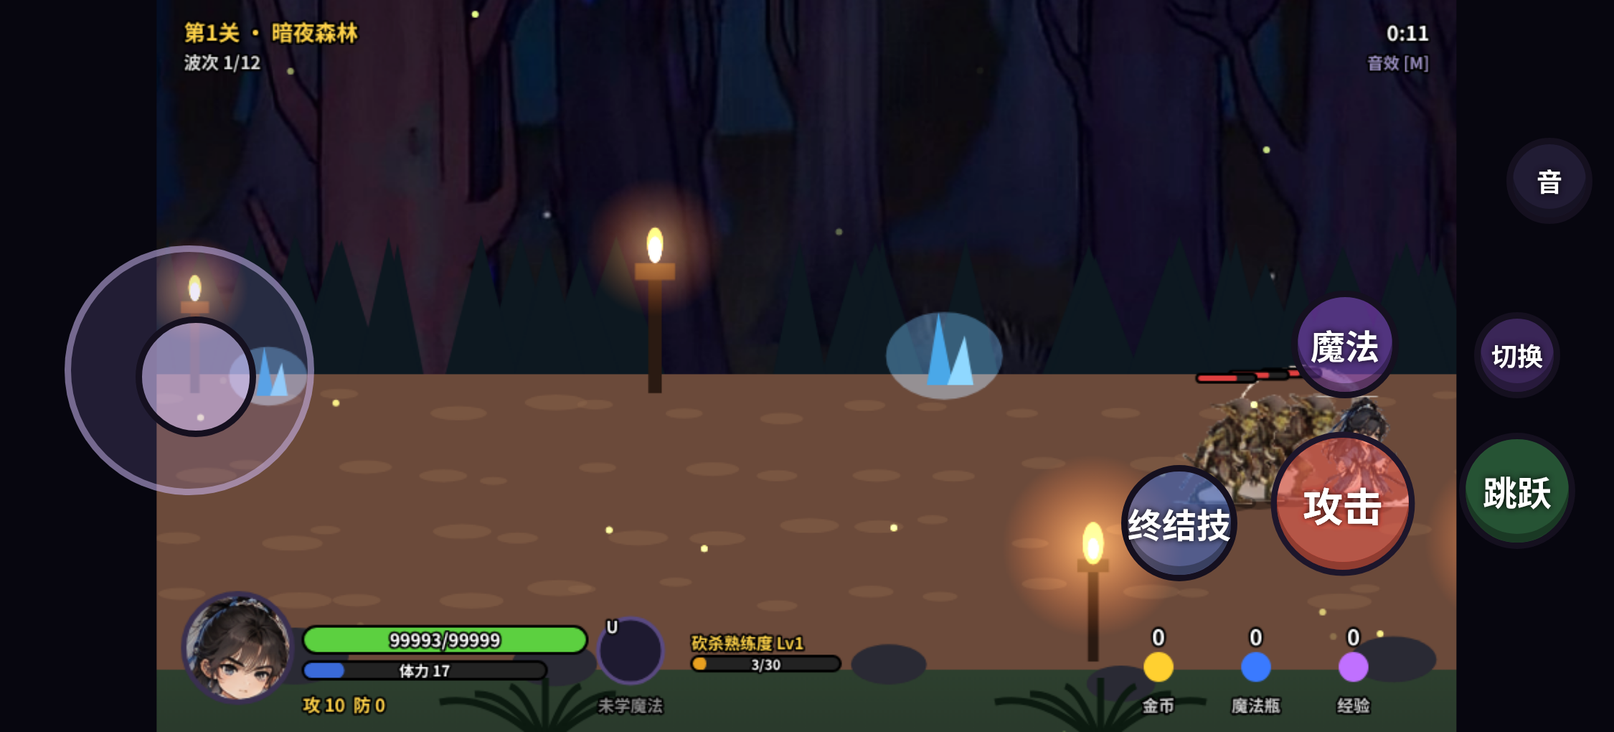
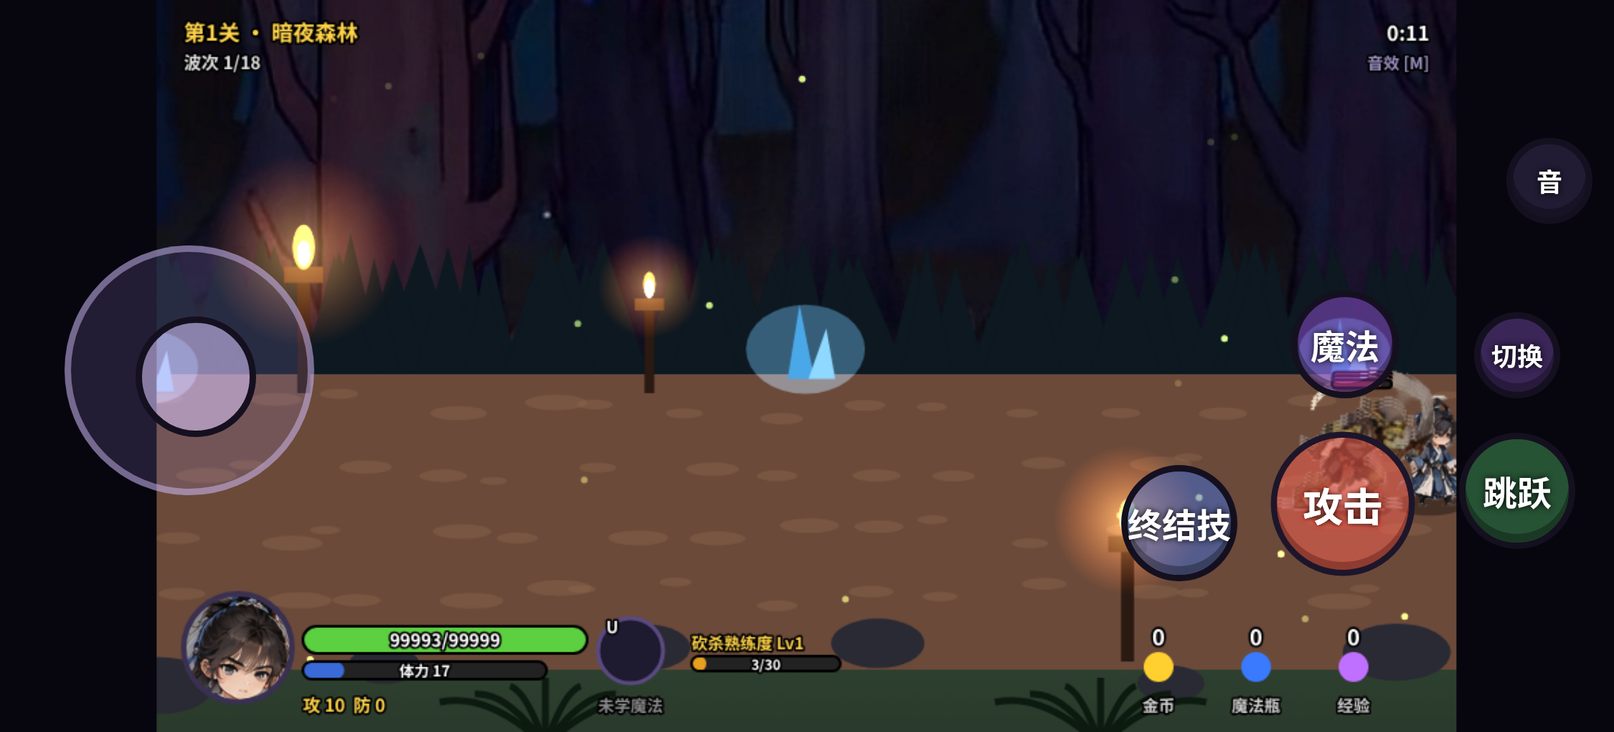
第二关雪人精灵与大雪人高清立绘补间、敌人图集去重影、分批增援拉长关卡（机器人实测 5.2–6.0 / 7.3 分钟）、文档更新

diff --git a/game.js b/game.js
@@ -43,7 +43,7 @@ const EN={
 const BOSSES={
  goblin_chief:{name:'哥布林酋长',shape:'big',hp:900,dmg:16,sp:55,exp:150,r:1.9,sc:1.12,col:'#4f8a3a',
   phases:[{at:1,pats:['combo','charge'],cd:1.9},{at:.5,pats:['combo','smash','summon'],summon:'goblin',cd:1.5,msg:'酋长怒吼，召唤援军！'}]},
- great_yeti:{name:'大雪人',shape:'snowboss',hp:1700,dmg:18,sp:60,exp:260,r:2.3,col:'#f2f7ff',face:'#3a6ac8',horns:1,crystals:1,
+ great_yeti:{name:'大雪人',shape:'snowboss',hp:2300,dmg:18,sp:60,exp:260,r:2.3,col:'#f2f7ff',face:'#3a6ac8',horns:1,crystals:1,
   phases:[{at:1,pats:['hammer','snowballs','slam','roll'],cd:1.6},{at:.6,pats:['snowballs','summon','hammer','roll','slam'],summon:'yeti_pup',cd:1.35,msg:'大雪人举锤怒吼，小雪人蜂拥而来！'},{at:.25,pats:['blizzard','hammer','slam','roll','snowballs'],cd:1.05,enrage:1,msg:'暴风雪降临！冰石如雨！'}]},
  flame_king:{name:'焰魔王·赤烎',shape:'warrior',hp:2400,dmg:22,sp:60,exp:400,r:2.4,col:'#7a0a08',horn:'#1a0a08',weapon:'#ff6a10',flame:1,king:1,
   phases:[{at:1,pats:['sweep','fireWave','sweep'],cd:1.6},{at:.6,pats:['geysers','summon','sweep','fireWave'],summon:'lava_imp',cd:1.35,msg:'赤烎召唤熔岩喷泉！'},
@@ -353,14 +353,17 @@ function updateBoss(e,dt,sl){const p=G.p,d=e.def;const ph=curPhase(e);
 }
 // ---------- 世界更新 ----------
 function hzActive(h){if(h.cyc){const t=(G.t+h.cyc.ofs)%h.cyc.per,i=h.cyc.per-h.cyc.warn-h.cyc.act;return t<i?0:t<i+h.cyc.warn?1:2}return h.t<h.warn?1:h.t<h.warn+h.act?2:3}
+function spawnBatch(w,L){const b=laneAt(w.x+W/2);L.forEach((t,i)=>{const side=t.startsWith('mini:')?1:(i%3===2?-1:1);spawn(t,side>0?w.x+W+40+i*30:w.x-40-i*20,rnd(b[0],b[1]))})}
 function updateWorld(dt){const p=G.p,B=G.B;
  // 波次
  if(G.lockX==null&&G.wave<B.waves.length&&p.x-W*.4>=B.waves[G.wave].x-40){const w=B.waves[G.wave];G.lockX=w.x;G.go=0;
   if(w.boss){spawnBoss(w.boss,w.x+W-150,(LANE_TOP+LANE_BOT)/2)}
-  else{w.list.forEach((t,i)=>{const side=t.startsWith('mini:')?1:(i%3===2?-1:1);const b=laneAt(w.x+W/2);spawn(t,side>0?w.x+W+40+i*30:w.x-40-i*20,rnd(b[0],b[1]))});
+  else{const n=w.list.some(t=>t.startsWith('mini:'))?1:Math.min(G.S.batches||1,Math.max(1,Math.floor(w.list.length/3)));
+   const bs=[];for(let k=0;k<n;k++)bs.push(w.list.filter((_,i)=>i%n===k));spawnBatch(w,bs.shift());G.reinf=bs;
    msg('第 '+(G.wave+1)+' 波'+(w.elite?' · 精英来袭！':''),w.elite?'#ff9a40':'#fff')}}
  if(G.lockX!=null){const camT=G.lockX;G.camX+=(camT-G.camX)*Math.min(1,dt*5);
-  if(G.enemies.every(e=>e.dead)&&!G.B.waves[G.wave].boss){G.lockX=null;G.wave++;G.go=2.5;sfx('go');
+  if(G.reinf&&G.reinf.length&&!G.B.waves[G.wave].boss&&G.enemies.filter(e=>!e.dead).length<=1){spawnBatch(G.B.waves[G.wave],G.reinf.shift());msg('增援来袭！','#ffb080')}
+  if(G.enemies.every(e=>e.dead)&&!(G.reinf&&G.reinf.length)&&!G.B.waves[G.wave].boss){G.lockX=null;G.wave++;G.go=2.5;sfx('go');
    if(B.witches.some(w=>Math.abs(w.x-(B.waves[G.wave-1].x+W+60))<5))msg('前方有女巫营地（按 E 学习魔法/恢复）','#c9a0ff')}}
  else G.camX+=(clamp(p.x-W*.4,0,B.end-W)-G.camX)*Math.min(1,dt*6);
  G.go=Math.max(0,G.go-dt);
@@ -537,17 +540,33 @@ function enemyAnim(e){const d=e.def;if(e.dead)return ['death',e.deadT,false,6];i
  if(e.state==='wind'||e.state==='strike'){const T=e.state==='wind'?e.t/e.wind*.5:.5+e.t;if(sh==='big'&&e.atkType==='smash')return ['smash',T*1.5,false,4];return ['attack',T*1.8,false,5]}
  if(e.state==='leap')return [sh==='big'?'leap':'jumpatk',e.t,false,6];
  if(e.moving)return [d.ai==='fast'||e.boss&&curPhase(e).enrage?'run':'walk',e.at,true,8];return ['idle',e.at,true,5]}
+// 大雪人：单张正面高清立绘 + 补间姿态（避免低清动作帧的锯齿与特效残留）
+function bossPose(e){const P=e.pat,T=e.patT||0,o={dx:0,dy:0,qx:1,qy:1,rot:0,glow:0};const br=Math.sin(G.t*3);
+ if(e.dead){const k=Math.min(1,e.deadT);o.rot=-.35*k;o.dy=10*k;o.qy=1-.15*k;return o}
+ if(e.hurtT>0){o.rot=-.05;o.dx=-e.face*3}
+ if(P==='hammer'||P==='roll'){const w=P==='hammer'?.6:.8;if(T<w){const k=T/w;o.rot=-.14*k;o.qy=1+.06*k;o.qx=1-.03*k;o.dx=-e.face*6*k}
+  else{const k=Math.min(1,(T-w)/.1),r=Math.max(0,1-(T-w-.1)/.45);o.rot=(.18*k)*r;o.qy=1-.1*k*r;o.qx=1+.08*k*r;o.dx=e.face*14*k*r}}
+ else if(P==='slam'){if(T<.2){const k=T/.2;o.qy=1-.12*k;o.qx=1+.08*k}else if(T<.95){const k=(T-.2)/.75;o.dy=-Math.sin(k*Math.PI)*80;o.qy=1.06;o.qx=.96;o.rot=.05*Math.sin(k*Math.PI)}
+  else{const r=Math.max(0,1-(T-.95)/.35);o.qy=1-.16*r;o.qx=1+.12*r}}
+ else if(P==='snowballs'||P==='blizzard'){const per=P==='blizzard'?.14:.42,ph=T<.55?T/.55:((T-.55)/per)%1;const s=Math.sin(ph*Math.PI*2);o.rot=-.1*s;o.qy=1+.05*s;o.qx=1-.03*s}
+ else if(P==='summon'){o.dx=Math.sin(G.t*45)*3;o.qy=1.05+.02*br;o.glow=.18+.08*Math.sin(G.t*10)}
+ else if(e.moving){const w=Math.sin(e.at*7);o.dy=-Math.abs(w)*6;o.rot=.04*w;o.qy=1+.02*Math.abs(w)}
+ else{o.qy=1+.02*br;o.qx=1-.01*br}
+ if(curPhase(e)&&curPhase(e).enrage&&!o.glow)o.glow=.08+.05*Math.sin(G.t*6);return o}
 function drawEnemy(e,sx){const d=e.def,sh=d.shape;const y=e.y-e.z;if(e.hidden){return}
  const alpha=e.dead?clamp(1.2-e.deadT,0,1):1;ctx.save();ctx.globalAlpha=alpha;
  shadow(sx,e.y,22*e.r*(d.fly?.7:1),d.fly?.25:.35);
  const [an,t,loop,fps]=enemyAnim(e);
  if(sh==='gob'||sh==='big'||sh==='bat'||sh==='vamp'||sh==='snow'||sh==='snowboss'){const A={gob:GOBLIN_ATLAS,big:BIGGOBLIN_ATLAS,bat:BAT_ATLAS,vamp:VAMPIRE_ATLAS,snow:SNOWMAN_ATLAS,snowboss:SNOWBOSS_ATLAS}[sh];const ik=sh;
-  const base={gob:1.35,big:1.7,bat:1.5,vamp:1.55,snow:.85*e.r,snowboss:1.9}[sh];let sc=base*(e.sc||1);
+  const base={gob:1.35,big:1.7,bat:1.5,vamp:1.55,snow:.85*e.r,snowboss:.82}[sh];let sc=base*(e.sc||1);
   const an2=A.anims[an]?an:'idle';
   if(e.frozen>0)ctx.filter='saturate(.2) brightness(1.3) hue-rotate(160deg)';else if(e.hurtT>0)ctx.filter='brightness(2)';else if(e.stun>0)ctx.filter='brightness(1.3)';else if(d.tintF)ctx.filter=d.tintF;
   if(d.tintF&&!e.dead){ctx.save();ctx.globalCompositeOperation='lighter';ell(sx,y-45*e.r,30*e.r,40*e.r,'rgba(90,170,255,.13)');ctx.restore()}
   if(sh==='snowboss'&&e.pat==='slam'&&e.patT<.95){ctx.save();ctx.globalCompositeOperation='lighter';ell(sx+e.face*40,y,60*e.patT+20,(60*e.patT+20)*.3,`rgba(140,210,255,${.25*e.patT})`);ctx.restore()}
-  drawAtlas(A,ik,an2,loop?t:t,sx,y,e.face*GOB_FACE,sc,loop,fps);ctx.filter='none';
+  if(sh==='snowboss'){const q=bossPose(e);ctx.save();ctx.translate(sx+q.dx,y+q.dy);ctx.rotate(q.rot*e.face);ctx.scale(q.qx,q.qy);
+   if(q.glow){ctx.save();ctx.globalCompositeOperation='lighter';ell(0,-95,95,110,`rgba(120,200,255,${q.glow})`);ctx.restore()}
+   drawAtlas(A,ik,'idle',0,0,0,e.face*GOB_FACE,sc,true,1);ctx.restore()}
+  else drawAtlas(A,ik,an2,loop?t:t,sx,y,e.face*GOB_FACE,sc,loop,fps);ctx.filter='none';
   if(d.tint||(d.phases&&e.boss&&e.def.tint)){/* 色调靠光晕表现 */ctx.save();ctx.globalCompositeOperation='lighter';ell(sx,y-40*e.r,26*e.r,34*e.r,'rgba(160,0,40,.12)');ctx.restore()}
   if(d.gear==='spear'){ctx.strokeStyle='#8a6a3a';ctx.lineWidth=3;ctx.beginPath();ctx.moveTo(sx-e.face*10,y-34);ctx.lineTo(sx+e.face*46,y-46);ctx.stroke();ctx.fillStyle='#cfd8e0';ctx.beginPath();ctx.moveTo(sx+e.face*46,y-50);ctx.lineTo(sx+e.face*58,y-47);ctx.lineTo(sx+e.face*46,y-42);ctx.fill()}
   if(d.gear==='bow'){ctx.strokeStyle='#6a4a2a';ctx.lineWidth=3;ctx.beginPath();ctx.arc(sx+e.face*16,y-40,18,-1.3,1.3,e.face<0);ctx.stroke()}
@@ -828,7 +847,7 @@ function tapAt(x,y){for(let i=RECTS.length-1;i>=0;i--){const r=RECTS[i];if(x>=r.
 cv.addEventListener('click',e=>{const b=cv.getBoundingClientRect();tapAt((e.clientX-b.left)*W/b.width,(e.clientY-b.top)*H/b.height)});
 window.__tap=tapAt;window.__G=()=>G;
 window.__dbg={mode:()=>MODE,start:i=>startSel(i),profile:()=>PROFILE,
- skip:n=>{const w=G.B.waves[n];G.enemies=[];G.lockX=null;G.wave=n;G.p.x=w.x+W*.4-60;G.camX=w.x-60},
+ skip:n=>{const w=G.B.waves[n];G.enemies=[];G.reinf=[];G.lockX=null;G.wave=n;G.p.x=w.x+W*.4-60;G.camX=w.x-60},
  god:()=>{G.p.maxhp=G.p.hp=99999},give:(e,m)=>{G.p.exp+=e;G.p.mp+=m},learnAll:()=>{G.p.spells=SPELLS.map(s=>s.id)},
  killAll:()=>G.enemies.forEach(e=>{if(!e.dead){e.hp=0;kill(e)}}),unlockAll:()=>{PROFILE.unlocked=5;writeSave()},setPlv:l=>{G.p.plv=l;G.p.prof=PROF[l-1]},energy:()=>{G.p.energy=100},
  boss:()=>G.boss,speed:n=>{SPEED=n},resetSave:()=>{PROFILE=defProfile();writeSave()}};

diff --git a/assets/vampire_atlas.js b/assets/vampire_atlas.js
@@ -1,2 +1,4 @@
-window.BAT_ATLAS={"image": "assets/bat_atlas.png", "source": "ref/vampire_sheet.png", "frames": {"attack_4": {"x": 0, "y": 0, "w": 136, "h": 92, "ax": 82, "ay": 91}, "attack_3": {"x": 138, "y": 0, "w": 97, "h": 90, "ax": 52, "ay": 89}, "attack_1": {"x": 237, "y": 0, "w": 102, "h": 83, "ax": 52, "ay": 82}, "attack_2": {"x": 341, "y": 0, "w": 157, "h": 80, "ax": 64, "ay": 79}, "death_1": {"x": 500, "y": 0, "w": 93, "h": 74, "ax": 48, "ay": 73}, "idle_0": {"x": 595, "y": 0, "w": 73, "h": 71, "ax": 36, "ay": 70}, "attack_0": {"x": 670, "y": 0, "w": 122, "h": 71, "ax": 65, "ay": 70}, "death_0": {"x": 794, "y": 0, "w": 72, "h": 71, "ax": 36, "ay": 70}, "death_2": {"x": 868, "y": 0, "w": 95, "h": 70, "ax": 44, "ay": 69}, "idle_2": {"x": 0, "y": 94, "w": 75, "h": 68, "ax": 32, "ay": 67}, "idle_6": {"x": 77, "y": 94, "w": 67, "h": 68, "ax": 33, "ay": 67}, "fly_2": {"x": 146, "y": 94, "w": 90, "h": 68, "ax": 49, "ay": 67}, "fly_3": {"x": 238, "y": 94, "w": 96, "h": 68, "ax": 38, "ay": 67}, "idle_4": {"x": 336, "y": 94, "w": 86, "h": 67, "ax": 45, "ay": 66}, "fly_1": {"x": 424, "y": 94, "w": 91, "h": 67, "ax": 48, "ay": 66}, "fly_4": {"x": 517, "y": 94, "w": 99, "h": 67, "ax": 46, "ay": 66}, "idle_3": {"x": 618, "y": 94, "w": 89, "h": 66, "ax": 50, "ay": 65}, "idle_5": {"x": 709, "y": 94, "w": 67, "h": 66, "ax": 32, "ay": 65}, "idle_1": {"x": 778, "y": 94, "w": 71, "h": 60, "ax": 33, "ay": 58}, "fly_0": {"x": 851, "y": 94, "w": 117, "h": 60, "ax": 54, "ay": 58}, "fly_5": {"x": 0, "y": 164, "w": 89, "h": 60, "ax": 43, "ay": 59}, "death_3": {"x": 91, "y": 164, "w": 104, "h": 58, "ax": 52, "ay": 57}, "death_5": {"x": 197, "y": 164, "w": 125, "h": 58, "ax": 65, "ay": 57}, "death_4": {"x": 324, "y": 164, "w": 112, "h": 37, "ax": 55, "ay": 36}}, "anims": {"idle": ["idle_0", "idle_1", "idle_2", "idle_3", "idle_4", "idle_5", "idle_6"], "fly": ["fly_0", "fly_1", "fly_2", "fly_3", "fly_4", "fly_5"], "attack": ["attack_0", "attack_1", "attack_2", "attack_3", "attack_4"], "death": ["death_0", "death_1", "death_2", "death_3", "death_4", "death_5"]}};
-window.VAMPIRE_ATLAS={"image": "assets/vampire_atlas.png", "source": "ref/vampire_sheet.png", "frames": {"attack2_3": {"x": 0, "y": 0, "w": 84, "h": 90, "ax": 46, "ay": 88}, "attack2_0": {"x": 86, "y": 0, "w": 107, "h": 89, "ax": 55, "ay": 87}, "attack2_2": {"x": 195, "y": 0, "w": 93, "h": 86, "ax": 50, "ay": 85}, "walk_1": {"x": 290, "y": 0, "w": 78, "h": 84, "ax": 39, "ay": 82}, "hurt_0": {"x": 370, "y": 0, "w": 82, "h": 84, "ax": 42, "ay": 83}, "idle_0": {"x": 454, "y": 0, "w": 76, "h": 83, "ax": 40, "ay": 82}, "attack_0": {"x": 532, "y": 0, "w": 76, "h": 83, "ax": 41, "ay": 82}, "walk_0": {"x": 610, "y": 0, "w": 71, "h": 82, "ax": 35, "ay": 81}, "walk_2": {"x": 683, "y": 0, "w": 92, "h": 82, "ax": 44, "ay": 81}, "idle_2": {"x": 777, "y": 0, "w": 89, "h": 81, "ax": 43, "ay": 80}, "attack_1": {"x": 868, "y": 0, "w": 93, "h": 81, "ax": 49, "ay": 80}, "idle_1": {"x": 0, "y": 92, "w": 68, "h": 80, "ax": 36, "ay": 79}, "attack_2": {"x": 70, "y": 92, "w": 106, "h": 80, "ax": 52, "ay": 79}, "hurt_2": {"x": 178, "y": 92, "w": 86, "h": 80, "ax": 45, "ay": 78}, "hurt_3": {"x": 266, "y": 92, "w": 90, "h": 79, "ax": 47, "ay": 78}, "hurt_1": {"x": 358, "y": 92, "w": 90, "h": 78, "ax": 46, "ay": 76}, "hurt_4": {"x": 450, "y": 92, "w": 85, "h": 77, "ax": 50, "ay": 76}, "death_0": {"x": 537, "y": 92, "w": 85, "h": 76, "ax": 43, "ay": 75}, "death_1": {"x": 624, "y": 92, "w": 98, "h": 53, "ax": 50, "ay": 52}, "attack2_1": {"x": 724, "y": 92, "w": 40, "h": 47, "ax": 9, "ay": 46}, "death_2": {"x": 766, "y": 92, "w": 131, "h": 38, "ax": 57, "ay": 37}}, "anims": {"idle": ["idle_0", "idle_1", "idle_2"], "walk": ["walk_0", "walk_1", "walk_2"], "attack": ["attack_0", "attack_1", "attack_2"], "attack2": ["attack2_0", "attack2_1", "attack2_2", "attack2_3"], "hurt": ["hurt_0", "hurt_1", "hurt_2", "hurt_3", "hurt_4"], "death": ["death_0", "death_1", "death_2"]}};
+window.BAT_ATLAS={"image": "assets/bat_atlas.png", "source": "ref/vampire_sheet.png", "frames": {"attack_4": {"x": 0, "y": 0, "w": 136, "h": 92, "ax": 82, "ay": 91}, "attack_3": {"x": 138, "y": 0, "w": 97, "h": 90, "ax": 52, "ay": 89}, "attack_1": {"x": 237, "y": 0, "w": 102, "h": 83, "ax": 52, "ay": 82}, "attack_2": {"x": 341, "y": 0, "w": 157, "h": 80, "ax": 64, "ay": 79}, "death_1": {"x": 500, "y": 0, "w": 93, "h": 74, "ax": 48, "ay": 73}, "idle_0": {"x": 595, "y": 0, "w": 73, "h": 71, "ax": 36, "ay": 70}, "attack_0": {"x": 670, "y": 0, "w": 122, "h": 71, "ax": 65, "ay": 70}, "death_0": {"x": 794, "y": 0, "w": 72, "h": 71, "ax": 36, "ay": 70}, "death_2": {"x": 868, "y": 0, "w": 95, "h": 70, "ax": 44, "ay": 69}, "idle_2": {"x": 0, "y": 94, "w": 75, "h": 68, "ax": 32, "ay": 67}, "idle_6": {"x": 77, "y": 94, "w": 67, "h": 68, "ax": 33, "ay": 67}, "fly_2": {"x": 146, "y": 94, "w": 90, "h": 68, "ax": 49, "ay": 67}, "fly_3": {"x": 238, "y": 94, "w": 96, "h": 68, "ax": 38, "ay": 67}, "idle_4": {"x": 336, "y": 94, "w": 86, "h": 67, "ax": 45, "ay": 66}, "fly_1": {"x": 424, "y": 94, "w": 91, "h": 67, "ax": 48, "ay": 66}, "fly_4": {"x": 517, "y": 94, "w": 99, "h": 67, "ax": 46, "ay": 66}, "idle_3": {"x": 618, "y": 94, "w": 89, "h": 66, "ax": 50, "ay": 65}, "idle_5": {"x": 709, "y": 94, "w": 67, "h": 66, "ax": 32, "ay": 65}, "idle_1": {"x": 778, "y": 94, "w": 71, "h": 60, "ax": 33, "ay": 58}, "fly_0": {"x": 851, "y": 94, "w": 117, "h": 60, "ax": 54, "ay": 58}, "fly_5": {"x": 0, "y": 164, "w": 89, "h": 60, "ax": 43, "ay": 59}, "death_3": {"x": 91, "y": 164, "w": 104, "h": 58, "ax": 52, "ay": 57}, "death_5": {"x": 197, "y": 164, "w": 125, "h": 58, "ax": 65, "ay": 57}, "death_4": {"x": 324, "y": 164, "w": 112, "h": 37, "ax": 55, "ay": 36}}, "anims": {"idle": ["idle_0", "idle_1", "idle_2", "idle_3", "idle_4", "idle_5", "idle_6"], "fly": ["fly_0", "fly_1", "fly_2", "fly_3", "fly_4", "fly_5"], "attack": ["attack_0", "attack_1", "attack_2", "attack_3", "attack_4"], "death": ["death_0", "death_2", "death_3", "death_4", "death_5"]}};
+
+window.VAMPIRE_ATLAS={"image": "assets/vampire_atlas.png", "source": "ref/vampire_sheet.png", "frames": {"attack2_3": {"x": 0, "y": 0, "w": 84, "h": 90, "ax": 46, "ay": 88}, "attack2_0": {"x": 86, "y": 0, "w": 107, "h": 89, "ax": 55, "ay": 87}, "attack2_2": {"x": 195, "y": 0, "w": 93, "h": 86, "ax": 50, "ay": 85}, "walk_1": {"x": 290, "y": 0, "w": 78, "h": 84, "ax": 39, "ay": 82}, "hurt_0": {"x": 370, "y": 0, "w": 82, "h": 84, "ax": 42, "ay": 83}, "idle_0": {"x": 454, "y": 0, "w": 76, "h": 83, "ax": 40, "ay": 82}, "attack_0": {"x": 532, "y": 0, "w": 76, "h": 83, "ax": 41, "ay": 82}, "walk_0": {"x": 610, "y": 0, "w": 71, "h": 82, "ax": 35, "ay": 81}, "walk_2": {"x": 683, "y": 0, "w": 92, "h": 82, "ax": 44, "ay": 81}, "idle_2": {"x": 777, "y": 0, "w": 89, "h": 81, "ax": 43, "ay": 80}, "attack_1": {"x": 868, "y": 0, "w": 93, "h": 81, "ax": 49, "ay": 80}, "idle_1": {"x": 0, "y": 92, "w": 68, "h": 80, "ax": 36, "ay": 79}, "attack_2": {"x": 70, "y": 92, "w": 106, "h": 80, "ax": 52, "ay": 79}, "hurt_2": {"x": 178, "y": 92, "w": 86, "h": 80, "ax": 45, "ay": 78}, "hurt_3": {"x": 266, "y": 92, "w": 90, "h": 79, "ax": 47, "ay": 78}, "hurt_1": {"x": 358, "y": 92, "w": 90, "h": 78, "ax": 46, "ay": 76}, "hurt_4": {"x": 450, "y": 92, "w": 85, "h": 77, "ax": 50, "ay": 76}, "death_0": {"x": 537, "y": 92, "w": 85, "h": 76, "ax": 43, "ay": 75}, "death_1": {"x": 624, "y": 92, "w": 98, "h": 53, "ax": 50, "ay": 52}, "attack2_1": {"x": 724, "y": 92, "w": 40, "h": 47, "ax": 9, "ay": 46}, "death_2": {"x": 766, "y": 92, "w": 131, "h": 38, "ax": 57, "ay": 37}}, "anims": {"idle": ["idle_0", "idle_1", "idle_2"], "walk": ["walk_0", "walk_1", "walk_2"], "attack": ["attack_0", "attack_1", "attack_2"], "attack2": ["attack2_1", "attack2_2", "attack2_3"], "hurt": ["hurt_0", "hurt_1", "hurt_2", "hurt_3", "hurt_4"], "death": ["death_0", "death_1", "death_2"]}};
+

diff --git a/stages.js b/stages.js
@@ -2,26 +2,26 @@
 // ===== 关卡配置（可替换背景）=====
 // 每关的 far 字段指向远景图（assets/bg/ 下）。要替换美术：把图片放进 assets/bg/，改这里的路径即可；
 // far 为 null 时使用程序化占位背景（不会请求任何文件）。图片建议高度 320px，横向可无缝平铺。
-// hpMul：本关敌人血量倍率；countMul：每波人数倍率（四舍五入，精英也会增加）。两者用于调节关卡时长。
+// hpMul：本关敌人血量倍率；countMul：每波人数倍率（四舍五入，精英也会增加）；batches：每波分几批出现（场上剩 ≤1 只时下一批增援入场）。三者用于调节关卡时长。
 // waves 字段用简写（|bridge 桥段窄通道，|river 浅水减速）：'类型*数量,类型*数量'；elite: true 表示关中精英波；rest: true 表示该波之后有女巫休息点。
 const STAGES=[
  {id:1,name:'暗夜森林',theme:'森林',placeholder:false,far:'assets/bg/stage1_far.jpg',farY:-10,farAlpha:.85,
   sky:['#0b0d24','#1a1840'],ground:{base:'#2a3a2c',path:'#6b4a3a',pathHi:'rgba(150,110,80,.35)',edge:'#3d5a3a'},
-  decor:'forest',ambient:['fireflies'],diff:1,hpMul:1.8,countMul:1.7,boss:'goblin_chief',
+  decor:'forest',ambient:['fireflies'],diff:1,hpMul:1.8,countMul:2,batches:3,boss:'goblin_chief',
   waves:['goblin*3','goblin*4','goblin*4,goblin_spear*1|rest','goblin*5,goblin_spear*1','goblin*4,goblin_spear*2','goblin_captain*1,goblin*3|elite',
    'goblin*6|rest','goblin*5,goblin_spear*2','goblin*4,goblin_spear*3','goblin_captain*1,goblin*4,goblin_spear*1|elite','goblin*6,goblin_spear*2|rest','goblin*5,goblin_spear*3',
    'goblin*7','goblin_captain*2,goblin*3|elite','goblin*6,goblin_spear*3|rest','goblin*6,goblin_spear*3','goblin*8,goblin_spear*2','goblin_captain*2,goblin*4,goblin_spear*2|elite'],
   hazards:{}},
  {id:2,name:'雪岭寒关',theme:'雪山',placeholder:false,far:'assets/bg/stage2_far.jpg',farY:-20,farAlpha:.9,
   sky:['#8fb4e0','#dce8f6'],ground:{base:'#c9d6e6',path:'#e8eef6',pathHi:'rgba(255,255,255,.5)',edge:'#a8bcd4'},
-  decor:'snow',ambient:['snow'],diff:1.35,boss:'great_yeti',resist:{ice:.5,fire:1.5},
+  decor:'snow',ambient:['snow'],diff:1.35,hpMul:1.2,countMul:1.5,batches:3,boss:'great_yeti',resist:{ice:.5,fire:1.5},
   waves:['yeti_pup*4','yeti*2,yeti_pup*3','yeti_thrower*2,yeti_pup*3|rest','yeti*3,yeti_thrower*1,yeti_pup*2','yeti_pup*7','yeti_big*1,yeti_pup*3|elite',
    'yeti*3,yeti_thrower*2|rest','yeti_pup*5,yeti_thrower*2','yeti*4,yeti_pup*3','yeti_big*1,yeti*2,yeti_thrower*2|elite','yeti_pup*6,yeti_thrower*2|rest','yeti*4,yeti_thrower*3',
    'yeti_pup*8,yeti*2','yeti_big*2,yeti_pup*3|elite','yeti*4,yeti_thrower*3|rest','yeti_pup*6,yeti*3,yeti_thrower*2','yeti*5,yeti_thrower*3','yeti_big*2,yeti*3,yeti_thrower*2|elite'],
   hazards:{rocks:{from:6,kind:'icicle',every:4.5}}},
  {id:3,name:'熔岩火山',theme:'火山',placeholder:false,far:'assets/bg/stage3_far.jpg',farY:-30,farAlpha:.95,
   sky:['#2a0806','#6a1a0a'],ground:{base:'#1c1414',path:'#2a2222',pathHi:'rgba(255,90,20,.12)',edge:'#3a1a10'},
-  decor:'volcano',ambient:['embers','ash','shimmer'],diff:1.75,hpMul:1.3,boss:'flame_king',resist:{fire:.5,ice:1.5},
+  decor:'volcano',ambient:['embers','ash','shimmer'],diff:1.75,hpMul:1.3,batches:2,boss:'flame_king',resist:{fire:.5,ice:1.5},
   waves:['lava_imp*4','lava_imp*3,flame_warrior*1','flame_warrior*2,flame_caster*1,lava_imp*2|rest','lava_imp*5,flame_caster*1','flame_warrior*2,lava_imp*3,flame_caster*1','rock_golem*1,lava_imp*3|elite',
    'flame_warrior*3,flame_caster*2|rest','lava_imp*7,flame_caster*1','flame_warrior*3,lava_imp*3|bridge','lava_imp*6,flame_caster*2|bridge','rock_golem*1,flame_warrior*2,flame_caster*1|elite|bridge','flame_warrior*3,flame_caster*2,lava_imp*2|rest|bridge',
    'lava_imp*8,flame_caster*2','flame_warrior*4,lava_imp*3,flame_caster*1','rock_golem*2,lava_imp*4|elite','lava_imp*6,flame_caster*3|rest','flame_warrior*4,lava_imp*4,flame_caster*2','rock_golem*2,flame_warrior*2,flame_caster*2|elite'],
@@ -29,14 +29,14 @@ const STAGES=[
   bridge:{top:362,bot:418}},
  {id:4,name:'溪谷森林',theme:'溪谷',placeholder:false,far:'assets/bg/stage4_far.jpg',farY:-25,farAlpha:1,
   sky:['#bfe0f0','#e8f4e0'],ground:{base:'#4a6a34',path:'#8a6a44',pathHi:'rgba(200,230,140,.25)',edge:'#3a5a2a'},
-  decor:'valley',ambient:['leaves','fireflies','shafts'],diff:2.2,boss:'goblin_king',
+  decor:'valley',ambient:['leaves','fireflies','shafts'],diff:2.2,hpMul:1.1,batches:2,boss:'goblin_king',
   waves:['goblin*4,goblin_spear*2','goblin_archer*2,goblin*3','goblin_jumper*2,goblin*3,goblin_spear*1|rest','goblin_spear*3,goblin_archer*2,goblin*2','goblin_jumper*3,goblin*4','goblin_lt*1,goblin*3,goblin_archer*1|elite',
    'goblin*5,goblin_spear*2|rest','goblin_archer*3,goblin_jumper*3','goblin*3,goblin_spear*3|bridge','goblin_jumper*3,goblin_archer*2|bridge','goblin*4,goblin_spear*2,goblin_archer*2|river|rest','goblin_lt*1,goblin_jumper*2,goblin_archer*2|elite|river',
    'goblin*6,goblin_archer*3','goblin_jumper*4,goblin_spear*3','goblin_lt*2,goblin*3|elite|rest','goblin*5,goblin_archer*3,goblin_jumper*2','goblin_spear*4,goblin_jumper*3,goblin_archer*2','goblin_lt*2,goblin_spear*3,goblin_jumper*2,goblin_archer*2|elite'],
   hazards:{},bridge:{top:360,bot:416},river:{top:300,bot:470,slow:.55}},
  {id:5,name:'黑夜古堡',theme:'古堡',placeholder:false,far:'assets/bg/stage5_far.jpg',farY:-20,farAlpha:1,final:1,
   sky:['#05060f','#1a1a30'],ground:{base:'#1a1a24',path:'#2e2e3c',pathHi:'rgba(180,200,255,.14)',edge:'#2a2a36'},
-  decor:'castle',ambient:['redleaves','fog','bats','lightning'],diff:2.7,boss:'vampire_count',resist:{thunder:1.4,fire:1.3},
+  decor:'castle',ambient:['redleaves','fog','bats','lightning'],diff:2.7,hpMul:1.15,boss:'vampire_count',resist:{thunder:1.4,fire:1.3},
   waves:['bat*4|bridge','bat*3,goblin_merc*2|bridge','bat*4,flame_caster*2|rest|bridge','goblin_merc*3,goblin_archer*2,bat*2','giant_bat*1,bat*4|elite','flame_warrior*2,flame_caster*2,bat*2|rest',
    'goblin_merc*4,bat*4','bat*6,goblin_archer*2','giant_bat*1,goblin_merc*3,flame_caster*1|elite','mini:goblin_king_shade|elite|rest','bat*6,flame_caster*2|hall','giant_bat*2,goblin_merc*3|elite|hall',
    'bat*6,goblin_archer*2,flame_caster*2|rest|hall','goblin_merc*5,bat*4|hall','flame_warrior*3,flame_caster*2,bat*4|hall','giant_bat*2,bat*6,goblin_merc*3,flame_caster*2|elite|hall'],

diff --git a/assets/snowman_atlas.js b/assets/snowman_atlas.js
@@ -1,2 +1,2 @@
 window.SNOWMAN_ATLAS={"image": "assets/snowman_atlas.png", "source": "ref/snowman_sheet.png", "frames": {"idle_0": {"x": 0, "y": 0, "w": 88, "h": 99, "ax": 33, "ay": 98}, "idle_1": {"x": 90, "y": 0, "w": 96, "h": 93, "ax": 34, "ay": 92}, "idle_2": {"x": 188, "y": 0, "w": 99, "h": 94, "ax": 44, "ay": 93}, "idle_3": {"x": 289, "y": 0, "w": 87, "h": 96, "ax": 38, "ay": 94}, "idle_4": {"x": 378, "y": 0, "w": 104, "h": 94, "ax": 46, "ay": 93}, "idle_5": {"x": 484, "y": 0, "w": 90, "h": 99, "ax": 51, "ay": 98}, "walk_0": {"x": 576, "y": 0, "w": 78, "h": 99, "ax": 42, "ay": 96}, "walk_1": {"x": 656, "y": 0, "w": 93, "h": 110, "ax": 52, "ay": 108}, "walk_2": {"x": 751, "y": 0, "w": 76, "h": 99, "ax": 42, "ay": 96}, "walk_3": {"x": 829, "y": 0, "w": 105, "h": 110, "ax": 63, "ay": 102}, "walk_4": {"x": 0, "y": 112, "w": 92, "h": 100, "ax": 56, "ay": 98}, "walk_5": {"x": 94, "y": 112, "w": 98, "h": 110, "ax": 51, "ay": 108}, "attack_0": {"x": 194, "y": 112, "w": 104, "h": 112, "ax": 50, "ay": 108}, "attack_1": {"x": 300, "y": 112, "w": 146, "h": 114, "ax": 81, "ay": 112}, "throw_0": {"x": 448, "y": 112, "w": 117, "h": 111, "ax": 62, "ay": 110}, "throw_1": {"x": 567, "y": 112, "w": 118, "h": 105, "ax": 66, "ay": 104}, "throw_2": {"x": 687, "y": 112, "w": 120, "h": 105, "ax": 58, "ay": 104}, "throw_3": {"x": 809, "y": 112, "w": 135, "h": 111, "ax": 64, "ay": 110}, "death_0": {"x": 0, "y": 228, "w": 130, "h": 100, "ax": 80, "ay": 96}, "death_1": {"x": 132, "y": 228, "w": 116, "h": 84, "ax": 48, "ay": 82}, "death_2": {"x": 250, "y": 228, "w": 134, "h": 92, "ax": 66, "ay": 86}, "death_3": {"x": 386, "y": 228, "w": 153, "h": 74, "ax": 82, "ay": 68}, "death_4": {"x": 541, "y": 228, "w": 196, "h": 80, "ax": 98, "ay": 78}, "snowball": {"x": 739, "y": 228, "w": 100, "h": 106, "ax": 51, "ay": 54}, "iceblock": {"x": 841, "y": 228, "w": 128, "h": 122, "ax": 62, "ay": 60}}, "anims": {"idle": ["idle_0", "idle_1", "idle_2", "idle_3", "idle_4", "idle_5"], "walk": ["walk_0", "walk_1", "walk_2", "walk_3", "walk_4", "walk_5"], "attack": ["attack_0", "attack_1"], "throw": ["throw_0", "throw_1", "throw_2", "throw_3"], "death": ["death_0", "death_1", "death_2", "death_3", "death_4"], "hurt": ["death_0"]}};
-window.SNOWBOSS_ATLAS={"image": "assets/snowboss_atlas.png", "source": "ref/snowman_sheet.png", "frames": {"idle_0": {"x": 0, "y": 0, "w": 102, "h": 87, "ax": 53, "ay": 86}, "idle_1": {"x": 104, "y": 0, "w": 92, "h": 87, "ax": 44, "ay": 86}, "idle_2": {"x": 198, "y": 0, "w": 124, "h": 87, "ax": 51, "ay": 86}, "idle_3": {"x": 324, "y": 0, "w": 124, "h": 87, "ax": 47, "ay": 86}, "idle_4": {"x": 450, "y": 0, "w": 112, "h": 87, "ax": 44, "ay": 86}, "idle_5": {"x": 564, "y": 0, "w": 141, "h": 84, "ax": 63, "ay": 82}, "walk_0": {"x": 707, "y": 0, "w": 128, "h": 92, "ax": 57, "ay": 90}, "walk_1": {"x": 837, "y": 0, "w": 117, "h": 93, "ax": 54, "ay": 92}, "walk_2": {"x": 0, "y": 95, "w": 129, "h": 93, "ax": 62, "ay": 92}, "walk_3": {"x": 131, "y": 95, "w": 135, "h": 93, "ax": 68, "ay": 92}, "walk_4": {"x": 268, "y": 95, "w": 135, "h": 92, "ax": 70, "ay": 90}, "attack_0": {"x": 405, "y": 95, "w": 164, "h": 100, "ax": 90, "ay": 99}, "attack_1": {"x": 571, "y": 95, "w": 140, "h": 111, "ax": 92, "ay": 110}, "shock_0": {"x": 713, "y": 95, "w": 140, "h": 92, "ax": 70, "ay": 90}, "shock_1": {"x": 855, "y": 95, "w": 158, "h": 78, "ax": 64, "ay": 76}, "shock_2": {"x": 0, "y": 208, "w": 148, "h": 81, "ax": 76, "ay": 80}, "throw_0": {"x": 150, "y": 208, "w": 104, "h": 105, "ax": 54, "ay": 104}, "throw_1": {"x": 256, "y": 208, "w": 156, "h": 120, "ax": 86, "ay": 118}, "throw_2": {"x": 414, "y": 208, "w": 126, "h": 108, "ax": 82, "ay": 106}, "summon_0": {"x": 542, "y": 208, "w": 232, "h": 126, "ax": 118, "ay": 124}, "summon_1": {"x": 776, "y": 208, "w": 196, "h": 122, "ax": 93, "ay": 120}}, "anims": {"idle": ["idle_0", "idle_1", "idle_2", "idle_3", "idle_4", "idle_5"], "walk": ["walk_0", "walk_1", "walk_2", "walk_3", "walk_4"], "attack": ["attack_0", "attack_1"], "shock": ["shock_0", "shock_1", "shock_2"], "throw": ["throw_0", "throw_1", "throw_2"], "summon": ["summon_0", "summon_1"], "hurt": ["shock_0"], "death": ["shock_0"]}};
+window.SNOWBOSS_ATLAS={"image": "assets/snowboss_atlas.png", "source": "ref/snowman_sheet.png（大雪人BOSS·正面）", "frames": {"front": {"x": 0, "y": 0, "w": 262, "h": 264, "ax": 131, "ay": 260}}, "anims": {"idle": ["front"], "walk": ["front"], "attack": ["front"], "shock": ["front"], "throw": ["front"], "summon": ["front"], "hurt": ["front"], "death": ["front"]}};

diff --git a/tools/snowboss_front.py b/tools/snowboss_front.py
@@ -1,0 +1,36 @@
+from PIL import Image, ImageFilter
+import numpy as np
+from scipy import ndimage as nd
+im=np.array(Image.open('/workspace/game/ref/snowman_sheet.png').convert('RGB')).astype(float)
+x0,y0,x1,y1=(1130,28,1268,180)
+c=im[y0:y1,x0:x1]
+bord=np.concatenate([c[:,:4],c[:,-4:]],1)
+bgr=np.median(bord,1)[:,None,:]
+d=np.sqrt(((c-bgr)**2).sum(2))
+lum=c.mean(2);r,g,b=c[...,0],c[...,1],c[...,2]
+navy=(lum<105)&(b-r>14)
+m=(d>40)&~navy
+H=c.shape[0];yy=np.arange(H)[:,None]
+m&=~((yy>125)&(d<90))
+m=nd.binary_closing(m,iterations=2);m=nd.binary_fill_holes(m);m=nd.binary_opening(m,iterations=2)
+nv=nd.binary_opening(navy,iterations=2);l2,n2=nd.label(nv);s2=nd.sum(nv,l2,range(1,n2+1));big=np.isin(l2,[i+1 for i,v in enumerate(s2) if v>120]);print('navy blobs',sorted(s2)[-5:]);m&=~big
+lab,n=nd.label(m);sz=nd.sum(m,lab,range(1,n+1))
+keep=lab==(np.argmax(sz)+1)
+keep=nd.binary_erosion(keep,iterations=1)
+ys,xs=np.where(keep)
+a=nd.gaussian_filter(keep.astype(float),0.6)*255
+o=np.dstack([c,a]).clip(0,255).astype(np.uint8)
+img=Image.fromarray(o).crop((xs.min(),ys.min(),xs.max()+1,ys.max()+1))
+img=img.resize((img.width*2,img.height*2),Image.LANCZOS).filter(ImageFilter.UnsharpMask(1.2,60,2))
+img.save('/workspace/sp/boss_front.png');print(img.size)
+bg=Image.new('RGBA',img.size,(90,140,90,255));bg.alpha_composite(img);bg.resize((img.width*3//2,img.height*3//2)).save('/workspace/sp/v8_front.png')
+# 写入 Boss 图集（正面高清立绘，动作由 game.js 补间实现）
+import json,re
+img.save('/workspace/game/assets/snowboss_atlas.png')
+w,h=img.size
+A={"image":"assets/snowboss_atlas.png","source":"ref/snowman_sheet.png（大雪人BOSS·正面）","frames":{"front":{"x":0,"y":0,"w":w,"h":h,"ax":w//2,"ay":h-4}},
+   "anims":{k:["front"] for k in ["idle","walk","attack","shock","throw","summon","hurt","death"]}}
+json.dump(A,open('/workspace/game/assets/snowboss_atlas.json','w'),ensure_ascii=False)
+js=open('/workspace/game/assets/snowman_atlas.js').read()
+js=re.sub(r'window\.SNOWBOSS_ATLAS=.*',lambda m:'window.SNOWBOSS_ATLAS='+json.dumps(A,ensure_ascii=False)+';',js)
+open('/workspace/game/assets/snowman_atlas.js','w').write(js)

diff --git a/tools/snow3.py b/tools/snow3.py
@@ -10,7 +10,7 @@ CELLS={
       'walk':[(832,930),(930,1019),(1020,1112),(1240,1337),(1338,1440)],'_y_walk':(575,643),
       'attack':[(1235,1355),(1355,1480)],'_y_attack':(650,726),
       'shock':[(945,1060),(1060,1165),(1165,1268)],'_y_shock':(734,805),
-      'throw':[(835,927),(925,1032),(1030,1140)],'_y_throw':(814,902),
+      'throw':[(835,927),(1030,1140)],'_y_throw':(814,902),
       'summon':[(995,1150),(1158,1305)],'_y_summon':(912,1002)}}
 FXS={'snowball':(330,405,470,548),'iceblock':(215,310,460,550)}
 FXCUT=55;KF=150;KB=170
@@ -59,14 +59,17 @@ def build(key,name,scale=1.0):
   W=1024;x=y=rowh=0;pos=[]
   for k,img,ax,ay in imgs:
     t=Image.fromarray(img)
-    if scale!=1:t=t.resize((round(t.width*scale),round(t.height*scale)),Image.LANCZOS);ax*=scale;ay*=scale
+    if scale!=1:
+      t=t.resize((round(t.width*scale),round(t.height*scale)),Image.LANCZOS);ax*=scale;ay*=scale
+      from PIL import ImageFilter
+      rgb=t.convert('RGB').filter(ImageFilter.UnsharpMask(radius=1.4,percent=90,threshold=2));rgb.putalpha(t.getchannel('A'));t=rgb
     if x+t.width+2>W:x=0;y+=rowh+2;rowh=0
     pos.append((t,x,y));frames[k]=dict(x=x,y=y,w=t.width,h=t.height,ax=int(round(ax)),ay=int(round(ay)));x+=t.width+2;rowh=max(rowh,t.height)
   at=Image.new('RGBA',(W,y+rowh));[at.paste(t,(x,y)) for t,x,y in pos]
   at.save(f'/workspace/game/assets/{name}_atlas.png',optimize=True)
   return {'image':f'assets/{name}_atlas.png','source':'ref/snowman_sheet.png','frames':frames,'anims':anims}
 if __name__=='__main__':
-  A=build('m','snowman',1.5);Bo=build('b','snowboss',1.5)
+  A=build('m','snowman',1.5);Bo=build('b','snowboss',2.0)
   A['anims']['hurt']=['death_0'];Bo['anims']['hurt']=['shock_0'];Bo['anims']['death']=['shock_0','summon_1'][:1]
   json.dump(A,open('/workspace/game/assets/snowman_atlas.json','w'));json.dump(Bo,open('/workspace/game/assets/snowboss_atlas.json','w'))
   open('/workspace/game/assets/snowman_atlas.js','w').write('window.SNOWMAN_ATLAS='+json.dumps(A)+';\nwindow.SNOWBOSS_ATLAS='+json.dumps(Bo)+';\n')

diff --git a/tools/clean_atlas.py b/tools/clean_atlas.py
@@ -1,0 +1,32 @@
+# 敌人图集去重影清理：每帧只保留主体（最大连通块及与之相邻的大块），去除半透明灰边/背景残块/相邻帧碎片/文字标签框
+import json,sys
+import numpy as np
+from PIL import Image
+from scipy import ndimage as nd
+def clean(name,src,dst,keep_ratio=.25):
+  d=json.load(open(f'assets/{name}_atlas.json'))
+  im=np.array(Image.open(src).convert('RGBA')).astype(np.int32)
+  out=im.copy()
+  for k,f in d['frames'].items():
+    x,y,w,h=f['x'],f['y'],f['w'],f['h'];c=im[y:y+h,x:x+w].copy();a=c[...,3]
+    a[a<128]=0;a[a>=128]=np.maximum(a[a>=128],235)
+    m=a>0
+    lab,n=nd.label(m,structure=np.ones((3,3)))
+    if n==0:continue
+    sz=nd.sum(m,lab,range(1,n+1));big=np.argmax(sz)+1
+    core=nd.binary_dilation(lab==big,iterations=3)
+    keep=np.zeros_like(m)
+    for i in range(1,n+1):
+      comp=lab==i;ys,xs=np.where(comp);bh,bw=np.ptp(ys)+1,np.ptp(xs)+1
+      rgb=c[comp][:,:3];sat=(rgb.max(1)-rgb.min(1)).mean()
+      boxy=sz[i-1]>150 and sz[i-1]/(bh*bw)>.8 and sat<25
+      if boxy:continue
+      if i==big or (core&comp).any() or sz[i-1]>keep_ratio*sz[big-1]:keep|=comp
+    # 边缘去灰：外圈 1px 半透明化
+    edge=keep&~nd.binary_erosion(keep)
+    a2=np.where(keep,a,0);a2[edge]=(a2[edge]*.6).astype(np.int32)
+    c[...,3]=a2;c[~keep,:3]=0
+    out[y:y+h,x:x+w]=c
+  Image.fromarray(out.clip(0,255).astype(np.uint8)).save(dst)
+if __name__=='__main__':
+  for n in sys.argv[1:]:import os;b=f'/workspace/sp/atl_bak/{n}_atlas.png';clean(n,b if os.path.exists(b) else f'assets/{n}_atlas.png',f'assets/{n}_atlas.png')

diff --git a/docs/关卡设计.md b/docs/关卡设计.md
@@ -15,8 +15,8 @@
 - 第 1–4 关 **18 波**、第 5 关 **16 波**小兵 + 首领战。小兵波触发时锁定镜头（竞技场），清空后出现「GO →」继续前进。
 - 波次间距 `WAVE_GAP = 760`（精英波后 +200、休息点后 +360），首波位于 `WAVE_START = 520`。
 - **女巫休息点**：带 `rest` 标记的波次之后出现女巫（每关 4 处）。按 E 对话：首次对话回满生命，并可花费经验学习法术。锁定波次期间女巫隐藏。
-- **目标时长 ≈ 10 分钟 / 关**：用「从不闪避、全力输出」的自动脚本测速（游戏内时间）：第 1 关 ≈5–6 分钟、第 2 关 ≈5.3 分钟、第 3 关 ≈5–6 分钟、第 4 关 ≈5.5 分钟、第 5 关 ≈7.5 分钟。真人需要走位、拾取、在女巫处停留，预计每关 8–12 分钟。
-- **时长调节**：`stages.js` 中每关的 `hpMul`（敌人与首领血量倍率，第 1 关 1.8、第 3 关 1.3，其余 1）、波次数量与每波人数。精英怪血量额外 ×1.5。
+- **目标时长**：用「从不闪避、全力输出」的自动脚本测速（游戏内时间，2026-10-28 实测）：第 1 关 312 秒（≈5.2 分钟）、第 2 关 338 秒（≈5.6 分钟）、第 3 关 328 秒（≈5.5 分钟）、第 4 关 362 秒（≈6.0 分钟）、第 5 关 440 秒（≈7.3 分钟）。真人需要走位、拾取、在女巫处停留，预计每关 8–12 分钟。
+- **时长调节**：`stages.js` 中每关的 `hpMul`（敌人与首领血量倍率：1.8 / 1.2 / 1.3 / 1.1 / 1.15）、`countMul`（每波人数倍率：第 1 关 2、第 2 关 1.5）与 `batches`（**分批增援**：每波敌人分 3 / 3 / 2 / 2 / 1 批入场，场上只剩 ≤1 只时下一批从屏幕外冲入并提示「增援来袭！」）。分批增援让每波持续更久、但同屏压力不变，比单纯堆血量更能拉长关卡而不显得拖沓；难度递增靠 `diff`、敌种与首领阶段。精英怪血量额外 ×1.5。
 - **难度递增**：敌人生命 / 伤害 × 关卡 `diff`，攻击间隔随 `diff` 缩短。主角最大生命 = 97 + 12 × 已通关数。NG+ 再 ×1.5。
 - **存档**：`localStorage` 键 `qingyi_brawler_save_v2`，保存解锁进度、各关最佳时间、金币 / 经验 / 魔法瓶、装备等级、熟练度、已学法术、烈炎剑、NG+ 标记。在女巫处学会法术后**立即写入存档**（同时扣除存档中的经验）；其余成长在通关时写入。
 
@@ -25,7 +25,7 @@
 - 背景：`assets/bg/stage1_far.jpg`，萤火虫环境粒子，树木 / 火把 / 蓝色水晶装饰。
 - 敌人：哥布林刀盾兵（正面格挡 30%）、哥布林长矛兵（攻击距离长）。
 - 精英：哥布林队长（第 6、10 波）。
-- 波次（18 波，人数）：`3 → 4 → 5(休) → 6 → 6 → 精英 → 6(休) → 7 → 7 → 精英 → 8(休) → 8 → 7 → 精英 → 9(休) → 9 → 10 → 精英`；精英波为第 6、10、14、18 波（队长 1–2 只）。敌人血量 ×1.8。
+- 波次（18 波，人数）：`3 → 4 → 5(休) → 6 → 6 → 精英 → 6(休) → 7 → 7 → 精英 → 8(休) → 8 → 7 → 精英 → 9(休) → 9 → 10 → 精英`；精英波为第 6、10、14、18 波（队长 1–2 只）。实际人数 ×2（`countMul`），每波分 3 批增援入场；敌人血量 ×1.8。
 - **首领 · 哥布林酋长**（HP 900）
   - 阶段 1：连击、冲撞
   - 阶段 2（50%）：连击、重砸、召唤哥布林 ——「酋长怒吼，召唤援军！」
@@ -34,14 +34,14 @@
 
 - 背景：`assets/bg/stage2_far.jpg`，飘雪。第 7 波起随机落下冰锥（预警圈）。
 - 抗性：**冰伤 ×0.5（冰抗），火伤 ×1.5（火弱）**——推荐火系法术。
-- 美术：`ref/snowman_sheet.png` 切图（左侧「雪人怪物」→ `assets/snowman_atlas.png`，右侧「大雪人BOSS」→ `assets/snowboss_atlas.png`）。切图时每帧只保留一个角色（去除斩击光弧、相邻帧残片），去灰边，统一脚底锚点与比例。
+- 美术：`ref/snowman_sheet.png` 切图（左侧「雪人怪物」→ `assets/snowman_atlas.png`，右侧「大雪人BOSS」→ `assets/snowboss_atlas.png`）。小怪切图时每帧只保留一个角色（去除斩击光弧、相邻帧残片），去灰边，统一脚底锚点与比例。大雪人的动作切片原图过小（约 70 px）且与冰雪特效重叠，放大后锯齿明显，因此改用右上角「正面」高清立绘（`tools/snowboss_front.py` 抠图、去除背景色块、2× 放大锐化），各招式用补间姿态（蓄力后仰、挥锤前倾、起跳落地压扁、投掷摆臂、召唤震颤+寒光）配合代码绘制的冰屑/冲击波/冰石表现。
 - 敌人（全部为雪人系，红围巾、木棒）：
   - **小雪人**：缩小版雪人，移动快，成群扑来（行走动画加速）。
   - **木棒雪人**：标准近战（「攻击(近战)」行：举棒蓄力 → 挥击），偶尔重砸。
   - **雪球雪人**：保持距离，播放「投掷雪球」行动画，抛出**弧线雪球**（雪球精灵）——地面先出现落点阴影，落地溅射伤害。
   - **冰甲雪人**（精英）：体型 ×1.6，冰蓝色调 + 寒气光晕，重甲，重砸后露出「破绽」。
 - 波次（18 波）：小雪人 / 木棒雪人 / 雪球雪人混编，第 6、10、14、18 波为精英波；第 3、7、11、15 波后有女巫。
-- **首领 · 大雪人**（HP 1700，冰刺背甲、锁链冰锤）——招式与图集行对应：
+- **首领 · 大雪人**（HP 2300，冰刺背甲、锁链冰锤）——招式（参考图中各动作行设计）：
   - **近战锤击**（近战攻击行）：举锤 → 砸下，前方近距离重击并溅起冰屑。
   - **冰雪冲击波**（冰雪冲击波行）：举锤蓄力（脚下寒光渐亮）后砸地，三圈带冰刺的冲击波向外扩散（跳起躲避）。
   - **投掷冰石**（投掷巨石行）：抛出巨大冰石（冰块精灵），落点地面阴影逐渐扩大，落地溅射。

diff --git a/README.md b/README.md
@@ -51,7 +51,8 @@ iOS Safari 可「添加到主屏幕」全屏游玩；首次触摸后启用音频
 
 ## 系统
 
-- **主角**：青衣剑客精灵（`ref/hero_sheet.png` 切图打包为 `assets/hero_atlas.png`），动画：待机、走、跑、跳、转身、五段连斩、突刺、横斩、升斩、下劈、旋风斩、剑气、闪避、格挡、蓄力、终结技、受击、倒地。切图脚本保证每帧只有一个人物（去除残影 / 斩击光弧 / 相邻帧残片、去灰边），所有帧统一脚底锚点与比例；动画帧率约为旧版 1.6–1.9 倍，攻击可在收招阶段输入缓冲接下一段，帧数少的动作带挤压 / 位移补间，缩放绘制开启平滑。
+- **主角**：青衣剑客精灵（`ref/hero_sheet.png` 切图打包为 `assets/hero_atlas.png`），动画：待机、走、跑、跳、转身、五段连斩、突刺、横斩、升斩、下劈、旋风斩、剑气、闪避、格挡、蓄力、终结技、受击、倒地。切图脚本保证每帧只有一个人物（去除残影 / 斩击光弧 / 相邻帧残片、去灰边），所有帧统一脚底锚点与比例；动画帧率约为旧版 1.6–1.9 倍，攻击可在收招阶段输入缓冲接下一段，帧数少的动作带挤压 / 位移补间，缩放绘制开启平滑。敌人图集同样经过 `tools/clean_atlas.py` 清理（每帧只留主体、去半透明灰边与标签框、剔除残片帧）；第二关大雪人使用参考图中的高清正面立绘 + 补间动作。
+- **关卡节奏**：每波敌人分批增援入场（场上剩 ≤1 只时下一批冲入）。不闪避的自动脚本实测：第 1–4 关约 5.2–6.0 分钟，第 5 关约 7.3 分钟。
 - **掉落**：金币、魔法瓶、利剑（攻击 +）、护甲（防御 +）；精英与首领必掉。
 - **体力 / 终结技**：命中或受伤积累体力，满后按 L 释放「万剑归宗」——飞剑雨锁定屏内每个敌人。
 - **魔法**：击杀获得经验，在女巫处学习火 / 冰 / 雷三系共 16 个法术（同系按顺序），施放消耗魔法瓶。特效来自 `ref/magic_sheet.png`。
